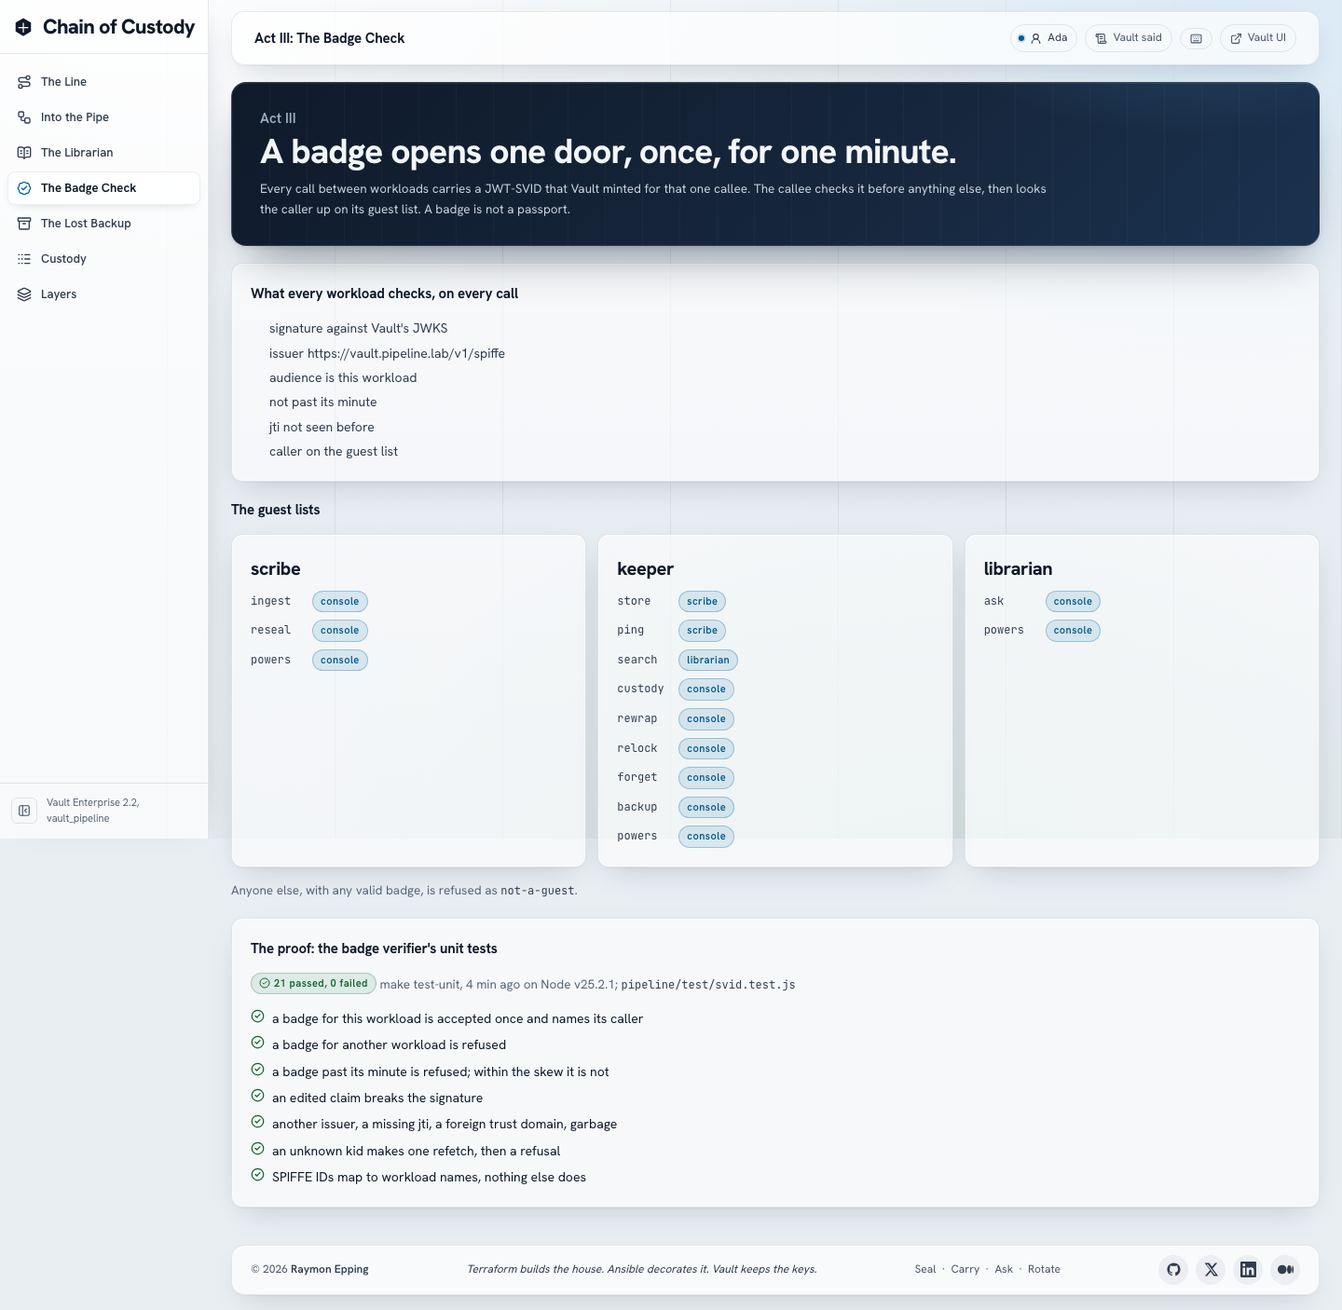
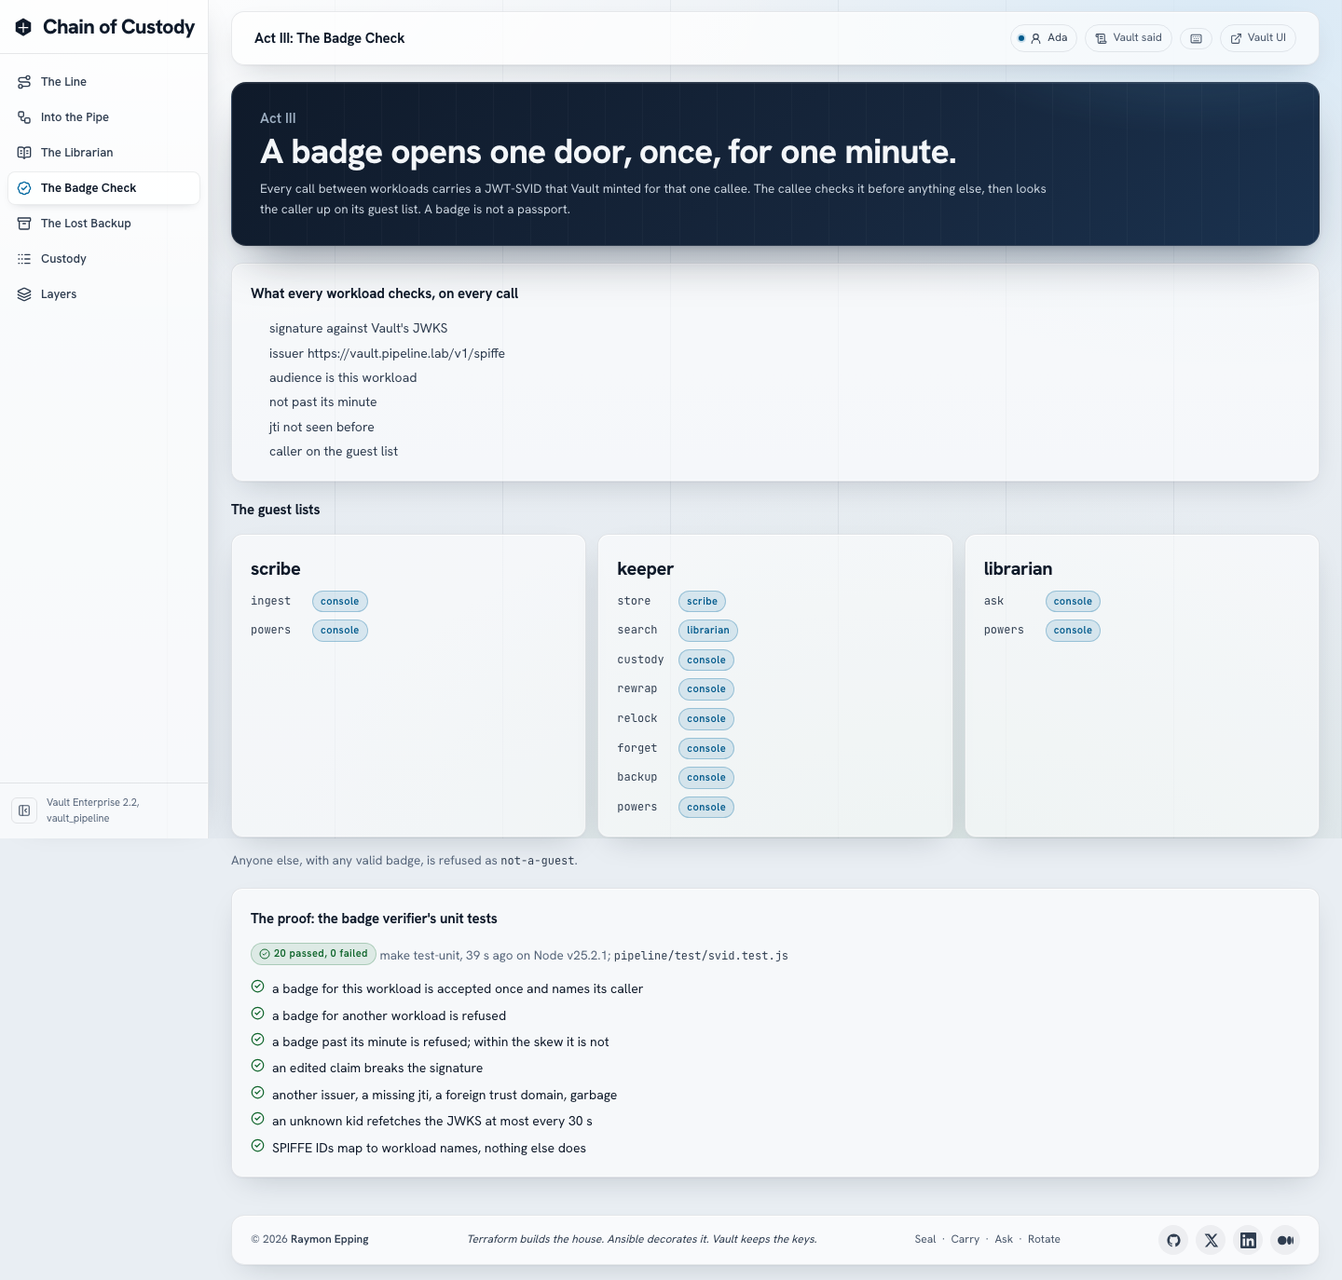
Clean round 1: 27 review findings fixed
Act IV no longer raises the minimum version over a failed rewrap; one act at
a time and one question per person; the JWKS refetch is throttled; a Vault
outage is an error, not a refusal; custody writes fail loudly and are
indexed per document; request ids follow a question through every workload;
the console's key policy allows the minimum version only; TLS 1.3, HSTS,
hardened data containers; dead doors, config fields and the extra secret
zero delivery removed.

diff --git a/pipeline/bin/console.js b/pipeline/bin/console.js
@@ -2,13 +2,14 @@
 // D15). Its own AppRole and SVID; it may rotate a collection key and raise
 // its minimum version, and nothing else in Vault. It signs people in
 // (Keycloak, PKCE BFF), logs a person in to Vault for one question and
-// revokes that token when the answer ends, calls the scribe, keeper and
-// librarian with its own badges, and runs the checks of Acts III and IV
-// against the real workloads. Never returns or logs a token.
+// revokes that token when the answer ends, and calls the scribe, keeper and
+// librarian with its own badges. Act III shows the guest lists and the
+// verifier's unit tests; Act IV runs live. Never returns or logs a token.
 import { createServer } from 'node:https';
 import { readFileSync, existsSync } from 'node:fs';
 import { randomUUID } from 'node:crypto';
 import { start } from '../lib/workload.js';
+import { requestContext } from '../lib/http.js';
 import { VaultError } from '../lib/vault.js';
 import * as auth from '../lib/session.js';
 
@@ -18,6 +19,11 @@ const LAYERS = process.env.LAYERS_FILE ?? '/build/layers.json';
 const PEERS = ['scribe', 'keeper', 'librarian'];
 const MAX_BODY = 64 * 1024;
 const PROBE_TEXT = 'Larkspur'; // the company's name: in every document, never in the database
+// One act at a time (two operators pressing at once would race the key's
+// minimum version), and one question at a time per person (the CPU model
+// serves one answer at a time).
+let actRunning = null;
+const asking = new Set();
 
 const fail = (status, code, message) => Object.assign(new Error(message), { status, code });
 
@@ -73,7 +79,7 @@ async function line() {
     trust_domain: w.cfg.trust_domain,
     issuer: w.issuer,
     jwks_kids: jwks.keys.map((k) => k.kid),
-    workloads: w.cfg.workloads.map(({ name, spiffe_path, address, vault_may, vault_refuses, accepts }) => ({ name, spiffe_id: `spiffe://${w.cfg.trust_domain}${spiffe_path}`, address, vault_may, vault_refuses, accepts, powers: powers[name] })),
+    workloads: w.cfg.workloads.map(({ name, spiffe_path, address, accepts }) => ({ name, spiffe_id: `spiffe://${w.cfg.trust_domain}${spiffe_path}`, address, accepts, powers: powers[name] })),
     collections: w.cfg.collections.map(({ name, reader_group, documents }) => ({ name, reader_group, documents })),
   };
 }
@@ -82,11 +88,14 @@ async function line() {
 async function ask(res, who, question) {
   const send = stream(res);
   let personToken = null;
+  // The browser left: stop the librarian, and revoke the token now.
+  const gone = new AbortController();
+  res.on('close', () => { if (!res.writableEnded) gone.abort(new Error('the browser left')); });
   try {
     const l = await w.vault.call('POST', 'auth/jwt/login', { body: { role: 'person', jwt: who.accessToken }, as: null });
     personToken = l.auth.client_token;
     send({ event: 'vault_login', person: who.user, policies: l.auth.identity_policies ?? [], ttl: l.auth.lease_duration });
-    const r = await w.call('librarian', 'POST', '/ask', { body: { question, person_token: personToken, person: who.user }, ms: 300_000 });
+    const r = await w.call('librarian', 'POST', '/ask', { body: { question, person_token: personToken, person: who.user }, ms: 300_000, signal: gone.signal });
     await relay(res, r);
   } catch (e) {
     send({ event: 'error', message: e instanceof VaultError ? `Vault said: ${e.said}` : e.message });
@@ -144,6 +153,10 @@ async function lostBackup(res, who) {
     send({ event: 'rotated', collection: col.name, from: before.latest_version, to: rotated });
     const rw = await peer('keeper', 'POST', '/rewrap', { collection: col.name });
     send({ event: 'rewrapped', ...rw });
+    // Never raise the minimum over a key that is still on an old version:
+    // that document would be unreadable for good.
+    const stuck = rw.rewrapped.filter((r) => r.error);
+    if (stuck.length) throw new Error(`not raising the minimum: ${stuck.map((r) => `${r.doc_id} (${r.error})`).join(', ')} still on an older version; press again`);
     await w.vault.call('POST', `transit/keys/${col.key}/config`, { body: { min_decryption_version: rotated } });
     send({ event: 'minimum_raised', collection: col.name, min_decryption_version: rotated });
     const relock = await peer('keeper', 'POST', '/relock', { collection: col.name, edk: old.edk });
@@ -159,14 +172,18 @@ async function lostBackup(res, who) {
 // ── The server ──────────────────────────────────────────────────────────────
 const json = (res, status, b) => res.writeHead(status, { 'content-type': 'application/json', 'cache-control': 'no-store' }).end(JSON.stringify(b));
 
-async function handle(req, res) {
+function handle(req, res) {
   const rid = randomUUID();
+  return requestContext.run({ id: rid }, () => serve(req, res, rid));
+}
+
+async function serve(req, res, rid) {
   const url = new URL(req.url, 'https://console');
   res.setHeader('x-request-id', rid);
   res.setHeader('x-content-type-options', 'nosniff');
   const t0 = Date.now();
   res.on('finish', () => { if (url.pathname !== '/healthz') w.logger('request', { id: rid, method: req.method, path: url.pathname, status: res.statusCode, ms: Date.now() - t0 }); });
-  const route = `${req.method} ${url.pathname}`;
+  const route = `${req.method} ${url.pathname}`; // e.g. 'POST /api/ask'
   try {
     if (auth.crossSiteWrite(req)) throw fail(403, 'cross_site', 'a write from another site is refused');
     if (route === 'GET /healthz') return json(res, 200, { ok: w.vault.ready, workload: 'console' });
@@ -186,7 +203,10 @@ async function handle(req, res) {
     if (route === 'GET /api/me') return json(res, 200, who ? { signedIn: true, user: who.user, name: who.name, groups: who.groups, operator: who.operator } : { signedIn: false });
     if (!who) throw fail(401, 'unauthenticated', 'sign in first');
     if (route === 'GET /api/line') return json(res, 200, await line());
-    if (route === 'GET /api/collections') return json(res, 200, await peer('keeper', 'GET', '/custody'));
+    if (route === 'GET /api/collections') {
+      const { documents } = await peer('keeper', 'GET', '/custody');
+      return json(res, 200, { documents, collections: w.cfg.collections.map(({ name, documents: ids }) => ({ name, documents: ids })) });
+    }
     if (route === 'GET /api/custody') {
       const doc = url.searchParams.get('doc');
       if (doc && !w.cfg.collections.some((c) => c.documents.includes(doc))) throw fail(404, 'unknown_document', doc);
@@ -195,14 +215,28 @@ async function handle(req, res) {
     if (route === 'POST /api/ask') {
       const { question } = await body(req);
       if (typeof question !== 'string' || !question.trim() || question.length > 500) throw fail(400, 'bad_question', 'a question of 1 to 500 characters');
+      if (asking.has(who.user)) throw fail(409, 'busy', `${who.user} has a question running; one at a time`);
+      asking.add(who.user);
+      res.on('close', () => asking.delete(who.user));
       return await ask(res, who, question.trim());
     }
-    if (req.method === 'POST' && url.pathname.startsWith('/api/acts/') && !who.operator) throw fail(403, 'not_an_operator', `${who.user} is not in pipeline-operators`);
+    if (req.method === 'POST' && url.pathname.startsWith('/api/acts/')) {
+      if (!who.operator) throw fail(403, 'not_an_operator', `${who.user} is not in pipeline-operators`);
+      if (actRunning) throw fail(409, 'busy', `${actRunning} is running; one act at a time`);
+      actRunning = `${url.pathname.slice(10)} (pressed by ${who.user})`;
+      res.on('close', () => { actRunning = null; });
+    }
     if (route === 'POST /api/acts/ingest') {
       const { collection } = await body(req);
       if (!w.cfg.collections.some((c) => c.name === collection)) throw fail(400, 'unknown_collection', String(collection));
-      stream(res)({ event: 'pressed', by: who.user });
-      return await relay(res, await w.call('scribe', 'POST', '/ingest', { body: { collection }, ms: 300_000 })).finally(() => res.end());
+      const send = stream(res);
+      send({ event: 'pressed', by: who.user });
+      try {
+        await relay(res, await w.call('scribe', 'POST', '/ingest', { body: { collection }, ms: 300_000 }));
+      } catch (e) {
+        send({ event: 'error', message: e.message });
+      }
+      return res.end();
     }
     if (route === 'POST /api/acts/backup') return await lostBackup(res, who);
     if (route === 'POST /api/acts/reset') return json(res, 200, await peer('keeper', 'POST', '/forget', {}));
@@ -215,4 +249,4 @@ async function handle(req, res) {
   }
 }
 
-createServer({ key: readFileSync(w.tls.key), cert: readFileSync(w.tls.cert), minVersion: 'TLSv1.2' }, handle).listen(PORT, '0.0.0.0', () => w.logger('listening', { port: PORT }));
+createServer({ key: readFileSync(w.tls.key), cert: readFileSync(w.tls.cert), minVersion: 'TLSv1.3' }, handle).listen(PORT, '0.0.0.0', () => w.logger('listening', { port: PORT }));

diff --git a/pipeline/bin/keeper.js b/pipeline/bin/keeper.js
@@ -41,8 +41,10 @@ async function q(sql, params) {
     throw e;
   }
 }
+// A custody row that cannot be written fails the operation: "every hand on
+// the record" is the story's promise.
 const custody = (docId, actor, action, detail = {}) =>
-  q('INSERT INTO custody (doc_id, actor, action, detail) VALUES ($1, $2, $3, $4)', [docId, actor, action, detail]).catch((e) => w.logger('custody_failed', { message: e.message }));
+  q('INSERT INTO custody (doc_id, actor, action, detail) VALUES ($1, $2, $3, $4)', [docId, actor, action, detail]);
 
 await connect();
 const vec = (a) => {
@@ -53,10 +55,16 @@ const vec = (a) => {
 serve({
   name: 'keeper', cfg: w.cfg, verifier: w.verifier, tls: w.tls, port: w.me.port,
   // A refused badge is part of the custody story (Act III).
-  onRefused: (r) => custody(null, r.sub ?? 'unknown', 'refused', r),
+  onRefused: (r) => custody(null, r.sub ?? 'unknown', 'refused', r).catch((e) => w.logger('custody_failed', { action: 'refused', message: e.message })),
   routes: [
-    { method: 'GET', path: '/healthz', op: null, handler: async (q2, res) => json(res, 200, { ok: w.vault.ready && Boolean(pool), workload: 'keeper', db_user: lease?.user }) },
-    { method: 'GET', path: '/ping', op: 'ping', handler: (req, res, ctx) => json(res, 200, { ok: true, caller: ctx.caller }) },
+    {
+      // Healthy means the database answers with Vault's current credential.
+      method: 'GET', path: '/healthz', op: null,
+      async handler(q2, res) {
+        const db = await q('SELECT 1').then(() => true, () => false);
+        json(res, db && w.vault.ready ? 200 : 503, { ok: db && w.vault.ready, workload: 'keeper', db, db_user: lease?.user });
+      },
+    },
     {
       // One sealed document as NDJSON: header, frames, done. Replaces an
       // earlier copy of the same document in one transaction.
@@ -92,8 +100,10 @@ serve({
         const r = await q(`SELECT f.doc_id, d.collection, f.seq, (f.seq = (SELECT max(seq) FROM frames x WHERE x.doc_id = f.doc_id)) AS last,
           encode(f.frame, 'base64') AS frame, d.header, d.edk, d.key_version, f.embedding <=> $1::vector AS distance
           FROM frames f JOIN documents d USING (doc_id) ORDER BY f.embedding <=> $1::vector LIMIT $2`, [vec(vector), Math.min(Math.max(1, Number(k) | 0), 12)]);
+        // One custody row per document found, so each document's history is
+        // one indexed lookup.
         const docs = [...new Set(r.rows.map((x) => x.doc_id))];
-        await custody(null, ctx.claims.sub, 'searched', { found: docs });
+        if (docs.length) await q('INSERT INTO custody (doc_id, actor, action, detail) SELECT d, $2, \'searched\', $3 FROM unnest($1::text[]) AS d', [docs, ctx.claims.sub, { frames: r.rows.length }]);
         json(res, 200, { frames: r.rows.map((x) => ({ ...x, header: { ...x.header, edk: x.edk } })) });
       },
     },
@@ -124,7 +134,7 @@ serve({
       method: 'GET', path: '/custody', op: 'custody',
       async handler(req, res, ctx) {
         const doc = ctx.url.searchParams.get('doc');
-        const rows = (await q(`SELECT id, at, doc_id, actor, action, detail FROM custody ${doc ? 'WHERE doc_id = $1 OR (doc_id IS NULL AND detail->\'found\' ? $1)' : ''} ORDER BY id DESC LIMIT 500`, doc ? [doc] : [])).rows;
+        const rows = (await q(`SELECT id, at, doc_id, actor, action, detail FROM custody ${doc ? 'WHERE doc_id = $1' : ''} ORDER BY id DESC LIMIT 500`, doc ? [doc] : [])).rows;
         const documents = (await q('SELECT d.doc_id, d.collection, d.key_version, left(d.edk, 9) AS edk_prefix, d.sealed_by, d.sealed_at, count(f.seq)::int AS frames, sum(length(f.frame))::int AS bytes FROM documents d LEFT JOIN frames f USING (doc_id) GROUP BY d.doc_id ORDER BY d.doc_id')).rows;
         json(res, 200, { documents, custody: rows.reverse() });
       },

diff --git a/pipeline/lib/workload.js b/pipeline/lib/workload.js
@@ -4,7 +4,7 @@
 import { readFileSync } from 'node:fs';
 import { createVault, fetchWithin, SecretZeroError } from './vault.js';
 import { createMinter, createVerifier } from './svid.js';
-import { log } from './http.js';
+import { log, requestContext } from './http.js';
 
 export function settings(name) {
   const cfg = JSON.parse(readFileSync(process.env.PIPELINE_CONFIG ?? '/config/pipeline.json', 'utf8'));
@@ -41,13 +41,14 @@ export async function start(name) {
   const mint = createMinter({ vault, self: name, trustDomain: s.cfg.trust_domain });
 
   // call(callee, method, path, body?) with a fresh SVID; returns the Response.
-  async function call(callee, method, path, { body, raw, ms = 60_000 } = {}) {
+  async function call(callee, method, path, { body, raw, ms = 60_000, signal } = {}) {
     const w = s.cfg.workloads.find((x) => x.name === callee);
     const svid = await mint(callee);
     return fetchWithin(`https://${callee}:${w.port}${path}`, {
       method,
-      headers: { authorization: `Bearer ${svid}`, ...(body !== undefined ? { 'content-type': raw ? 'application/x-ndjson' : 'application/json' } : {}) },
+      headers: { authorization: `Bearer ${svid}`, ...(requestContext.getStore()?.id ? { 'x-request-id': requestContext.getStore().id } : {}), ...(body !== undefined ? { 'content-type': raw ? 'application/x-ndjson' : 'application/json' } : {}) },
       body: body === undefined ? undefined : raw ? body : JSON.stringify(body),
+      signal,
     }, ms);
   }
 

diff --git a/pipeline/lib/svid.js b/pipeline/lib/svid.js
@@ -21,6 +21,7 @@ export const workloadOf = (trustDomain, id) => {
 };
 
 const SKEW_S = 5;
+const JWKS_REFETCH_S = 30;
 const b64json = (s) => JSON.parse(Buffer.from(s, 'base64url').toString('utf8'));
 
 // Decode without verifying: for display only (the console shows claims).
@@ -35,15 +36,21 @@ export function decode(token) {
 export function createVerifier({ self, trustDomain, issuer, fetchJwks, now = () => Date.now() / 1000 }) {
   const selfId = spiffeId(trustDomain, self);
   let keys = new Map();
+  let fetchedAt = -Infinity;
   const seen = new Map(); // jti -> exp
 
   async function refresh() {
     const jwks = await fetchJwks();
     keys = new Map((jwks.keys ?? []).map((k) => [k.kid, createPublicKey({ key: k, format: 'jwk' })]));
+    fetchedAt = now();
   }
 
   async function keyFor(kid) {
-    if (!keys.has(kid)) await refresh(); // a rotated key: one refetch
+    // An unknown kid: Vault may have rotated. Refetch at most every 30 s, so
+    // badges with made-up kids cannot turn into one Vault call each. Vault
+    // publishes the next key ahead of time (probe P2), so a real rotation is
+    // already in the cache.
+    if (!keys.has(kid) && now() - fetchedAt > JWKS_REFETCH_S) await refresh();
     return keys.get(kid);
   }
 

diff --git a/pipeline/lib/http.js b/pipeline/lib/http.js
@@ -7,6 +7,11 @@ import { createServer } from 'node:https';
 import { randomUUID } from 'node:crypto';
 import { readFileSync } from 'node:fs';
 import { SvidRefusal } from './svid.js';
+import { AsyncLocalStorage } from 'node:async_hooks';
+
+// The request id of the call being served: workload.js call() carries it on
+// to the next workload, so one question can be followed through every log.
+export const requestContext = new AsyncLocalStorage();
 
 export class HttpError extends Error {
   constructor(status, code, message, extra = {}) {
@@ -84,8 +89,14 @@ export function serve({ name, cfg, verifier, routes, tls, port, logger = log(nam
     return { caller, claims };
   }
 
-  const handler = async (req, res) => {
-    const id = randomUUID();
+  const handler = (req, res) => {
+    const given = String(req.headers['x-request-id'] ?? '');
+    const id = /^[A-Za-z0-9-]{8,64}$/.test(given) ? given : randomUUID();
+    res.setHeader('x-request-id', id);
+    return requestContext.run({ id }, () => serveOne(req, res, id));
+  };
+
+  const serveOne = async (req, res, id) => {
     const url = new URL(req.url, 'https://x');
     const route = routes.find((r) => r.method === req.method && r.path === url.pathname);
     const t0 = Date.now();

diff --git a/web/src/pages/Custody.jsx b/web/src/pages/Custody.jsx
@@ -6,10 +6,11 @@ import { record } from '../said.js';
 import { Hero, Mono, StatePill, hms } from '../components/ui.jsx';
 import { Gate } from '../components/gate.jsx';
 
-const DOCS = ['onboarding', 'travel-policy', 'safety-at-the-forge', 'board-2026-08', 'board-2026-09', 'board-2026-10'];
 const who = (a) => a.replace(/^spiffe:\/\/[^/]+\/workload\//, '');
 
 export default function Custody() {
+  const cols = useResource('/api/collections');
+  const docs = (cols.data?.collections ?? []).flatMap((c) => c.documents);
   const [doc, setDoc] = useState('board-2026-10');
   const { data, error } = useResource(`/api/custody?doc=${encodeURIComponent(doc)}`, { intervalMs: 10_000 });
   useEffect(() => { if (data) record(`GET /api/custody ${doc}`, data.custody.slice(-20)); }, [data, doc]);
@@ -26,7 +27,7 @@ export default function Custody() {
           <label className="form-field">
             <span className="sr-only">Document</span>
             <select value={doc} onChange={(e) => setDoc(e.target.value)}>
-              {DOCS.map((d) => <option key={d} value={d}>{d}</option>)}
+              {docs.map((d) => <option key={d} value={d}>{d}</option>)}
             </select>
           </label>
         </div>

diff --git a/pipeline/bin/librarian.js b/pipeline/bin/librarian.js
@@ -7,6 +7,7 @@
 import { start, ollama } from '../lib/workload.js';
 import { serve, readJson, ndjson, json, HttpError } from '../lib/http.js';
 import { openFrame } from '../lib/envelope.js';
+import { VaultError } from '../lib/vault.js';
 
 const w = await start('librarian');
 const llm = ollama(w.ollama);
@@ -27,7 +28,10 @@ async function openForAsker(personToken, frames) {
     try {
       dek = Buffer.from((await w.vault.callAs(personToken, 'POST', `transit/decrypt/${d.key}`, { body: { ciphertext: d.header.edk } })).data.plaintext, 'base64');
     } catch (e) {
-      refused.push({ doc_id: d.doc_id, collection: d.collection, status: e.status, vault_said: e.said ?? e.message, passages: d.frames.length });
+      // Only Vault's own 4xx answer is a refusal. An unreachable Vault is an
+      // error, never "you may not read this".
+      if (!(e instanceof VaultError) || e.status < 400 || e.status >= 500) throw e;
+      refused.push({ doc_id: d.doc_id, collection: d.collection, status: e.status, vault_said: e.said, passages: d.frames.length });
       continue;
     }
     try {

diff --git a/pipeline/bin/scribe.js b/pipeline/bin/scribe.js
@@ -63,18 +63,6 @@ serve({
       },
     },
     {
-      // Re-seal one document with a fresh data key; the keeper replaces its frames.
-      method: 'POST', path: '/reseal', op: 'reseal',
-      async handler(req, res) {
-        const { doc_id: docId } = await readJson(req);
-        const c = w.cfg.collections.find((x) => x.documents.includes(docId));
-        if (!c) throw new HttpError(400, 'unknown_document', `no document ${docId}`);
-        const events = [];
-        await sealAndStore(c, [docId], (e) => events.push(e));
-        json(res, 200, events[0]);
-      },
-    },
-    {
       method: 'GET', path: '/powers', op: 'powers',
       handler: async (q, res) => json(res, 200, { workload: 'scribe', powers: await w.powers(['spiffe/role/scribe/mintjwt', 'spiffe/role/keeper/mintjwt', 'transit/datakeys/plaintext/board', 'transit/decrypt/board', 'transit/rewrap/board', 'database/creds/keeper']) }),
     },

diff --git a/pipeline/test/svid.test.js b/pipeline/test/svid.test.js
@@ -56,12 +56,15 @@ test('another issuer, a missing jti, a foreign trust domain, garbage', async () 
   await refused(v, 'not.a.jwt', 'malformed');
 });
 
-test('an unknown kid makes one refetch, then a refusal', async () => {
+test('an unknown kid refetches the JWKS at most every 30 s', async () => {
   const v = verifier();
   await v.verify(token());
   const before = fetches;
+  for (let i = 0; i < 5; i++) await refused(v, token({}, { kid: `made-up-${i}` }), 'bad-signature');
+  assert.equal(fetches, before, 'no refetch within 30 s of the last one');
+  clock += 31;
   await refused(v, token({}, { kid: 'k2' }), 'bad-signature');
-  assert.equal(fetches, before + 1);
+  assert.equal(fetches, before + 1, 'one refetch after 30 s');
 });
 
 test('SPIFFE IDs map to workload names, nothing else does', () => {

diff --git a/pipeline/lib/vault.js b/pipeline/lib/vault.js
@@ -23,7 +23,9 @@ export class SecretZeroError extends Error {}
 export async function fetchWithin(url, init = {}, ms = 10_000) {
   const ac = new AbortController();
   const t = setTimeout(() => ac.abort(new Error(`timeout after ${ms} ms: ${url}`)), ms);
-  try { return await fetch(url, { ...init, signal: ac.signal }); } finally { clearTimeout(t); }
+  const { signal, ...rest } = init;
+  signal?.addEventListener('abort', () => ac.abort(signal.reason), { once: true });
+  try { return await fetch(url, { ...rest, signal: ac.signal }); } finally { clearTimeout(t); }
 }
 
 export function createVault({ addrs, log = () => {} }) {

diff --git a/scripts/pipeline-check.js b/scripts/pipeline-check.js
@@ -69,7 +69,6 @@ export function check(cfg, { corpusDir } = {}) {
     req(NAME.test(p.user ?? ''), `person ${p.user} is not a plain name`);
     for (const g of p.groups ?? []) req(groups.has(g), `${p.user}: unknown group ${g}`);
   }
-  for (const q of cfg.questions ?? []) req(cols.some((c) => c.name === q.collection), `question for unknown collection ${q.collection}`);
   return errs;
 }
 

diff --git a/pipeline/test/http.test.js b/pipeline/test/http.test.js
@@ -13,7 +13,3 @@ test('guest lists come from config/pipeline.json', () => {
   assert.deepEqual([...guestList(cfg, 'librarian').get('ask')], ['console']);
   assert.throws(() => guestList(cfg, 'nobody'));
 });
-
-test('only the scribe may knock on the keeper\'s ping door', () => {
-  assert.deepEqual([...guestList(cfg, 'keeper').get('ping')], ['scribe']);
-});
